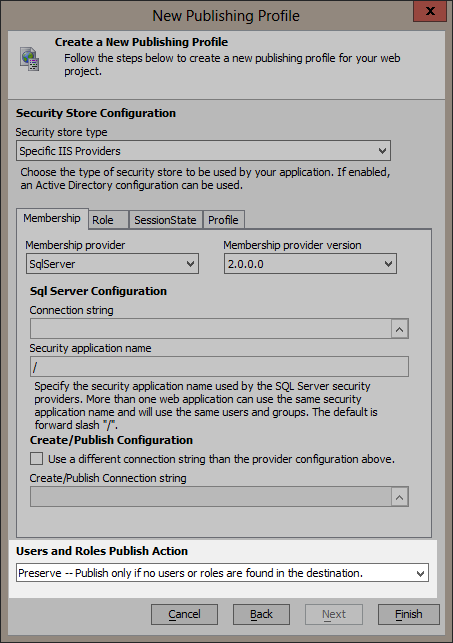
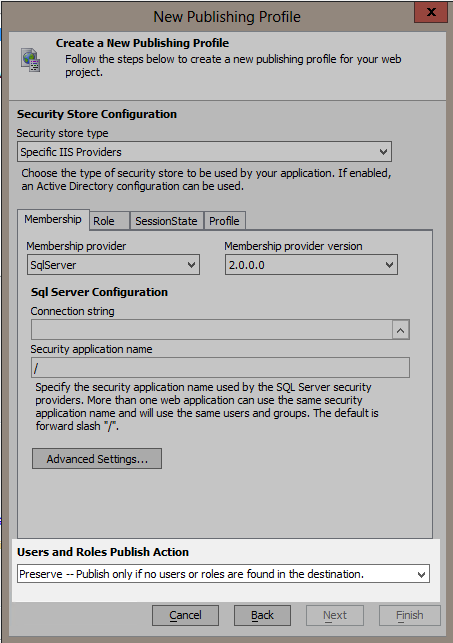
Update provider configuration doc to include the require client certificates feature.
Also updated images to match current ui.

diff --git a/helpfiles/Guides/IIS/ConfigureProviders/ProviderConfiguration.html b/helpfiles/Guides/IIS/ConfigureProviders/ProviderConfiguration.html
@@ -149,6 +149,8 @@ Provider definitions can have different types of sources based on the selected p
 	<li>Oracle</li>
 	<li>Custom</li>
 </ul>
+</p>
+<p>
 The SqlServer, MySQL, and Oracle providers are version specific. The versions that are selectable are based on the installed assemblies for the 
 provider. SqlServer's version is fixed at 2.0.0.0 and is already installed as part of ASP.NET. MySQL requires a version of the 
 <span style="font-weight: bold;">MySQL Connector/NET</span> to be installed.
@@ -158,6 +160,80 @@ installed. The packages for MySQL and Oracle also need to be installed on the II
 utility for installing MySql Connector/NET 6.7.4: <span class="fixedfont">A5InstallMySqlConnector.exe</span>. This utility is located in the installation folder
 which defaults to C:\Program Files (x86)\A5V12 Application Server for IIS.
 </p>
+
+<h3>Require Client Certificates</h3>
+<p>
+A client certificate (also known as PKI authentication) is a way a user can be authenticated instead of using a login page with 
+username and password prompts. This advanced feature is available for all "Specific IIS Providers" types.
+</p>
+<p>
+A client certificate is issued by a certificate authority just like a server certificate. Where as a server certificate validates 
+the identity of a server, a client certificate validates the identity of a client e.g. user. When <span style="font-style: italic;">Require Client Certificates</span> 
+is enabled, the server will request that the client sends a client certificate with its request. The server will validate the client 
+certificate as being issued by the stated certificate authority, is within the issued start and end date, and is not revoked. 
+Once the certificate is valid the user is authenticated. The email address for that user is extracted from the certificate and that 
+email address is used to authorize the user’s access to pages.
+</p>
+
+<div class="note">
+<span style="font-weight: bold;">Note</span>: In order for a  server to validate a client certificate, a certificate for the 
+certificate authority that issued the client certificate must be installed on the server. This certificate is typically stored 
+in the server machine’s Intermediate Certificate Authorities store or the Trusted Root Certificate Authorities store.
+</div>
+
+<p>
+Developing an application to use client certificates is the same as developing an application to use a login page with username and password
+prompts. The only special consideration that needs to be made is that user names must be an email address since an email address will be
+extracted from the client certificate to identify the user in the application.
+</p>
+<p>
+An application can add a new user and assign that user to groups using Context.Security() methods in an &quot;Administrator&quot; level 
+access pages as is typically done in Alpha Anywhere applications. 
+</p>
+<h4>Using Require Client Certificates</h4>
+<div class="note">
+<span style="font-weight: bold;">Prerequisite</span>: The IIS site must already exist and have an HTTPS binding set before publishing. Refer to the follow Microsoft documents for setting an HTTPS binding:
+<ul>
+	<li><a href="https://www.iis.net/learn/manage/configuring-security/how-to-set-up-ssl-on-iis">https://www.iis.net/learn/manage/configuring-security/how-to-set-up-ssl-on-iis</a></li>
+	<li><a href="https://technet.microsoft.com/en-us/library/cc731692(v=ws.10).aspx">https://technet.microsoft.com/en-us/library/cc731692(v=ws.10).aspx</a></li>
+</ul>
+</div>
+
+<p>
+The publish profile defines whether or not a client certificate is required or not. However, a user and group assignments for that user 
+must exist in the security tables before that user can be authenticated and authorized in the application. This is the same whether the 
+user is authenticated with a username and password or with a client certificate. So the membership and role providers must first be 
+defined as would be done when using usernames and passwords.
+</p>
+
+<p>
+The option to require client certificates is located on the &quot;Advanced Settings...&quot; dialog of the Membership tab of the 
+Security Store configuration page of the new publishing profile Genie.
+</p>
+
+<p>
+<a href="images/require-client-certificates-genie.png"><img src="images/require-client-certificates-genie.png" alt="Require client certificates setting in genie."></img></a>
+</p>
+
+<p>
+The option is also available in the publish profile property sheet in the membership provider group:
+</p>
+
+<p>
+<a href="images/require-client-certificates-property-sheet.png"><img src="images/require-client-certificates-property-sheet.png" alt="Require client certificates setting in property sheet."></img></a>
+</p>
+
+<p>
+Checking this option will configure the IIS site to require client certificates and will also disable anonymous authentication. 
+When anonymous authentication is disabled no page for file can be accessed without a client client certificate.
+</p>
+
+<p>
+After the application has been published with this setting, the browser will prompt the user for a client certificate to be sent 
+to the server when a page is requested.
+</p>
+
+<h3>Role, Session State, and Profile</h3>
 <p>
 The Role, Session State, and Profile providers can all use the same provider definition as the Membership provider. They have the 
 additional option of: 
@@ -524,9 +600,13 @@ publishing Application Server Demo web application.
 	<li><p>Click OK to create the connection string.</p></li>
 	<li><p>Back on the Genie page, leave the default value of "/" in the Security application name prompt.</p></li>
 	<li>
-		<p>Click on the "Use a different connection string than the provider configuration above." This will copy the provider connection
+		<p>Click on the "Advanced Settings..." button</p>
+		<p><a href="images/create-publish-connection-string-section.png"><img src="images/create-publish-connection-string-section.png" alt="Membership provider advanced settings."></img></a></p>
+	</li>
+	<li>
+		<p>Click on the "Use a different connection string for publishing security data." This will copy the provider connection
 	string into the Create/Publish connection string prompt. Click on the smart button to bring up the Create SQL Connection String dialog.</p>
-		<p><a href="images/create-publish-connection-string-section.png"><img src="images/create-publish-connection-string-section.png" alt="Create/publish connection string section."></img></a></p>
+		<p><a href="images/advanced-settings.png"><img src="images/advanced-settings.png" alt="Create/publish connection string section."></img></a></p>
 	</li>
 	<li><p>Click on the Use Windows Authentication check-box and then OK to save the connection string. If you are not using Windows authentication
 	enter the credentials for a user with permission to create databases such as the "sa" user.</p>

diff --git a/helpfiles/Guides/IIS/ConfigureProviders/custom-provider-configuration.html b/helpfiles/Guides/IIS/ConfigureProviders/custom-provider-configuration.html
@@ -246,11 +246,13 @@ Create a connection string your Oracle database and give the connection string a
 <div class="note">
 <span style="font-weight: bold;">Note</span>: For the purpose of this example the credentials used in the connection string has both
 read and write access to the security database. If you need to use a connection string with credentials that have read-only access to the
-security database then you will need to use the <span class="italic">Use a different connection string than the provider configuration above.</span>
+security database then you will need to use the the advanced setting <span style="font-style: italic;">Use a different connection string for publishing security data.</span>
 option to specify a connection string with credentials that have read-write access to the security database so that users and roles may
 be updated at publish time. If you do not need to update users and roles at publish time you do not need to specify a connection string with 
 read-write credentials.<br/><br/>
-<a href="images/read-write-connection-string.png"><img src="images/read-write-connection-string.png" alt="Connection string for publish users and roles."></img></a>
+<a href="images/read-write-connection-string.png"><img src="images/read-write-connection-string.png" alt="Advanced settings button."></img></a>
+<br/><br/>
+<a href="images/advanced-settings.png"><img src="images/advanced-settings.png" alt="Connection string for publish users and roles."></img></a>
 </div>
 
 <p>
